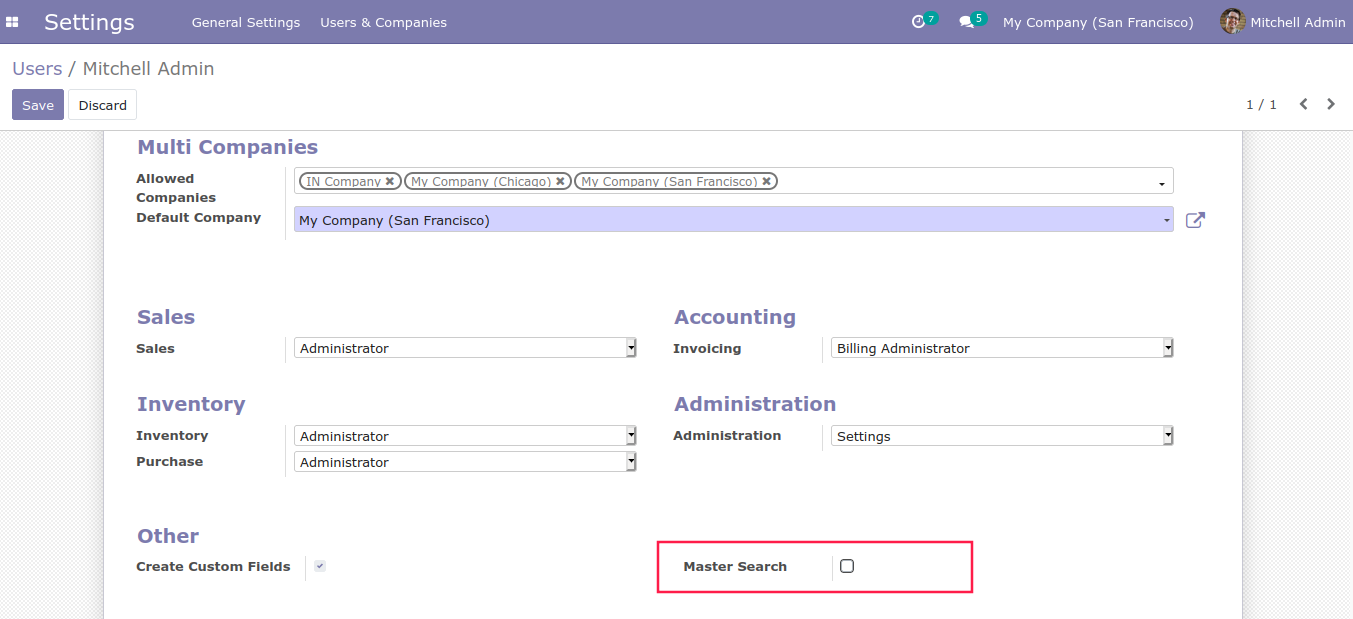
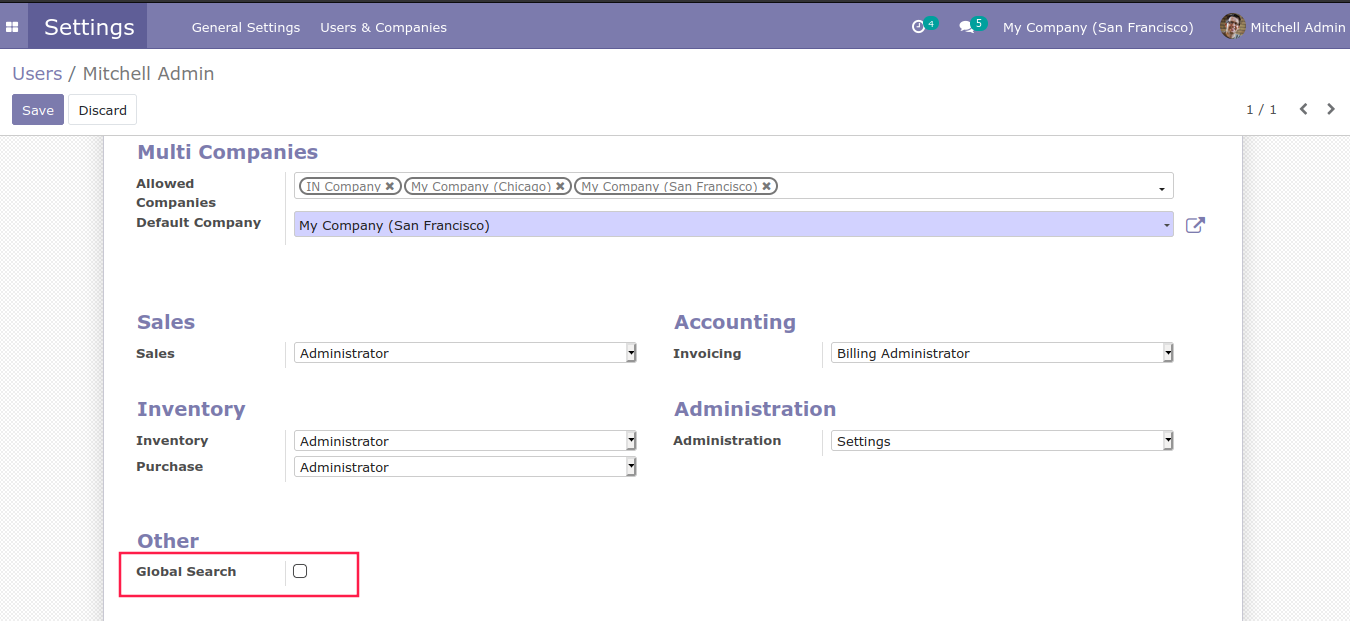
[UPDT] Index Updated

diff --git a/master_search/static/description/index.html b/master_search/static/description/index.html
@@ -4,7 +4,7 @@
     <div class="col-lg-6 d-flex flex-column justify-content-center">
       <h1
         style="font-family: Montserrat, 'sans-serif'; color: #000 !important; font-weight: 800 !important; font-size: 3rem !important;">
-        Master Search
+        Global Search
       </h1>
       <h4 class="mt-3"
         style="font-family: Montserrat, 'sans-serif'; color: #1a1a1a !important; font-weight: 300 !important; font-size: 1.5rem !important;">
@@ -44,7 +44,7 @@
   <div class="col-lg-12 d-flex flex-column justify-content-center align-items-center">
     <h2 class="text-center"
       style="font-family: Montserrat, 'sans-serif'; color: #000 !important; font-weight: 800 !important; font-size: 2rem !important; width: 80%; margin-bottom: 3rem !important;">
-      Master Search Video Demo</h2>
+      Global Search Video Demo</h2>
   </div>
   <div class="col-md-12" style="padding:0; text-align:center; margin-bottom:50px">
     <video width="100%" height="600px;" controls="">
@@ -67,10 +67,10 @@
 
     <div class="col-lg-12 mt-3">
       <p class="mt-3 text-center" style="font-family: Montserrat, 'sans-serif'; font-weight: 500; font-size: 1rem;">
-        Master Search module enables advance and simple search in different modules. It helps users to search the
+        Global Search module enables advance and simple search in different modules. It helps users to search the
         records
         in Customers, Products, Sale, Purchase, Inventory and Accounting Modules for
-        'Master Search' group users. Possible to search using different attributes like name, reference, number, etc.
+        'Global Search' group users. Possible to search using different attributes like name, reference, number, etc.
       </p>
     </div>
 
@@ -155,7 +155,7 @@
           style="background-color: #3498DB !important; border: 4px solid #d6eaf8 !important; box-shadow: 0px 0px 0px 4px #ebf5fb !important; color: #fff !important; height: 35px; width: 35px; border-radius: 50% !important; font-size: 1.1rem !important; ">
           <h6 style="margin-top: 0.5rem; color: #fff !important;">1</h6>
         </div>
-        <h6 class="mt-2 ml-2">Master Search User Access</h6>
+        <h6 class="mt-2 ml-2">Global Search User Access</h6>
       </div>
       <img src="assets/screenshots/1-Master-Search-User-Access.png" width="100%" class="img-resposive"
         style="border-radius: 10px !important;">
@@ -167,7 +167,7 @@
           style="background-color: #3498DB !important; border: 4px solid #d6eaf8 !important; box-shadow: 0px 0px 0px 4px #ebf5fb !important; color: #fff !important; height: 35px; width: 35px; border-radius: 50% !important; font-size: 1.1rem !important;">
           <h6 style="margin-top: 0.6rem; color: #fff !important;">2</h6>
         </div>
-        <h6 class="mt-2 ml-2">Master Search</h6>
+        <h6 class="mt-2 ml-2">Global Search</h6>
       </div>
       <img src="assets/screenshots/2-Master-Search-main-screenshot.png" width="100%" class="img-resposive"
         style="border-radius: 10px !important;">

diff --git a/master_search/__manifest__.py b/master_search/__manifest__.py
@@ -21,10 +21,10 @@
 
 {
     'name': 'Global Search',
-    'version': '14.0.1.0.0',
+    'version': '14.0.1.1.0',
     'summary': """Easy Search in Customers, Products, Sale, Purchase, Inventory and Accounting modules""",
-    'description': """Search, Master Search, Quick Search, Easy Search, Easy Search in Customers, Products, Sale, Purchase, Inventory and Accounting modules, 
-                      Search, Advance search, master search, odoo14, """,
+    'description': """Search, Global Search, Quick Search, Easy Search, Easy Search in Customers, Products, Sale, Purchase, Inventory and Accounting modules, 
+                      Search, Advance search, global search, odoo14, """,
     'category': 'Settings',
     'author': 'Cybrosys Techno Solutions',
     'company': 'Cybrosys Techno Solutions',
